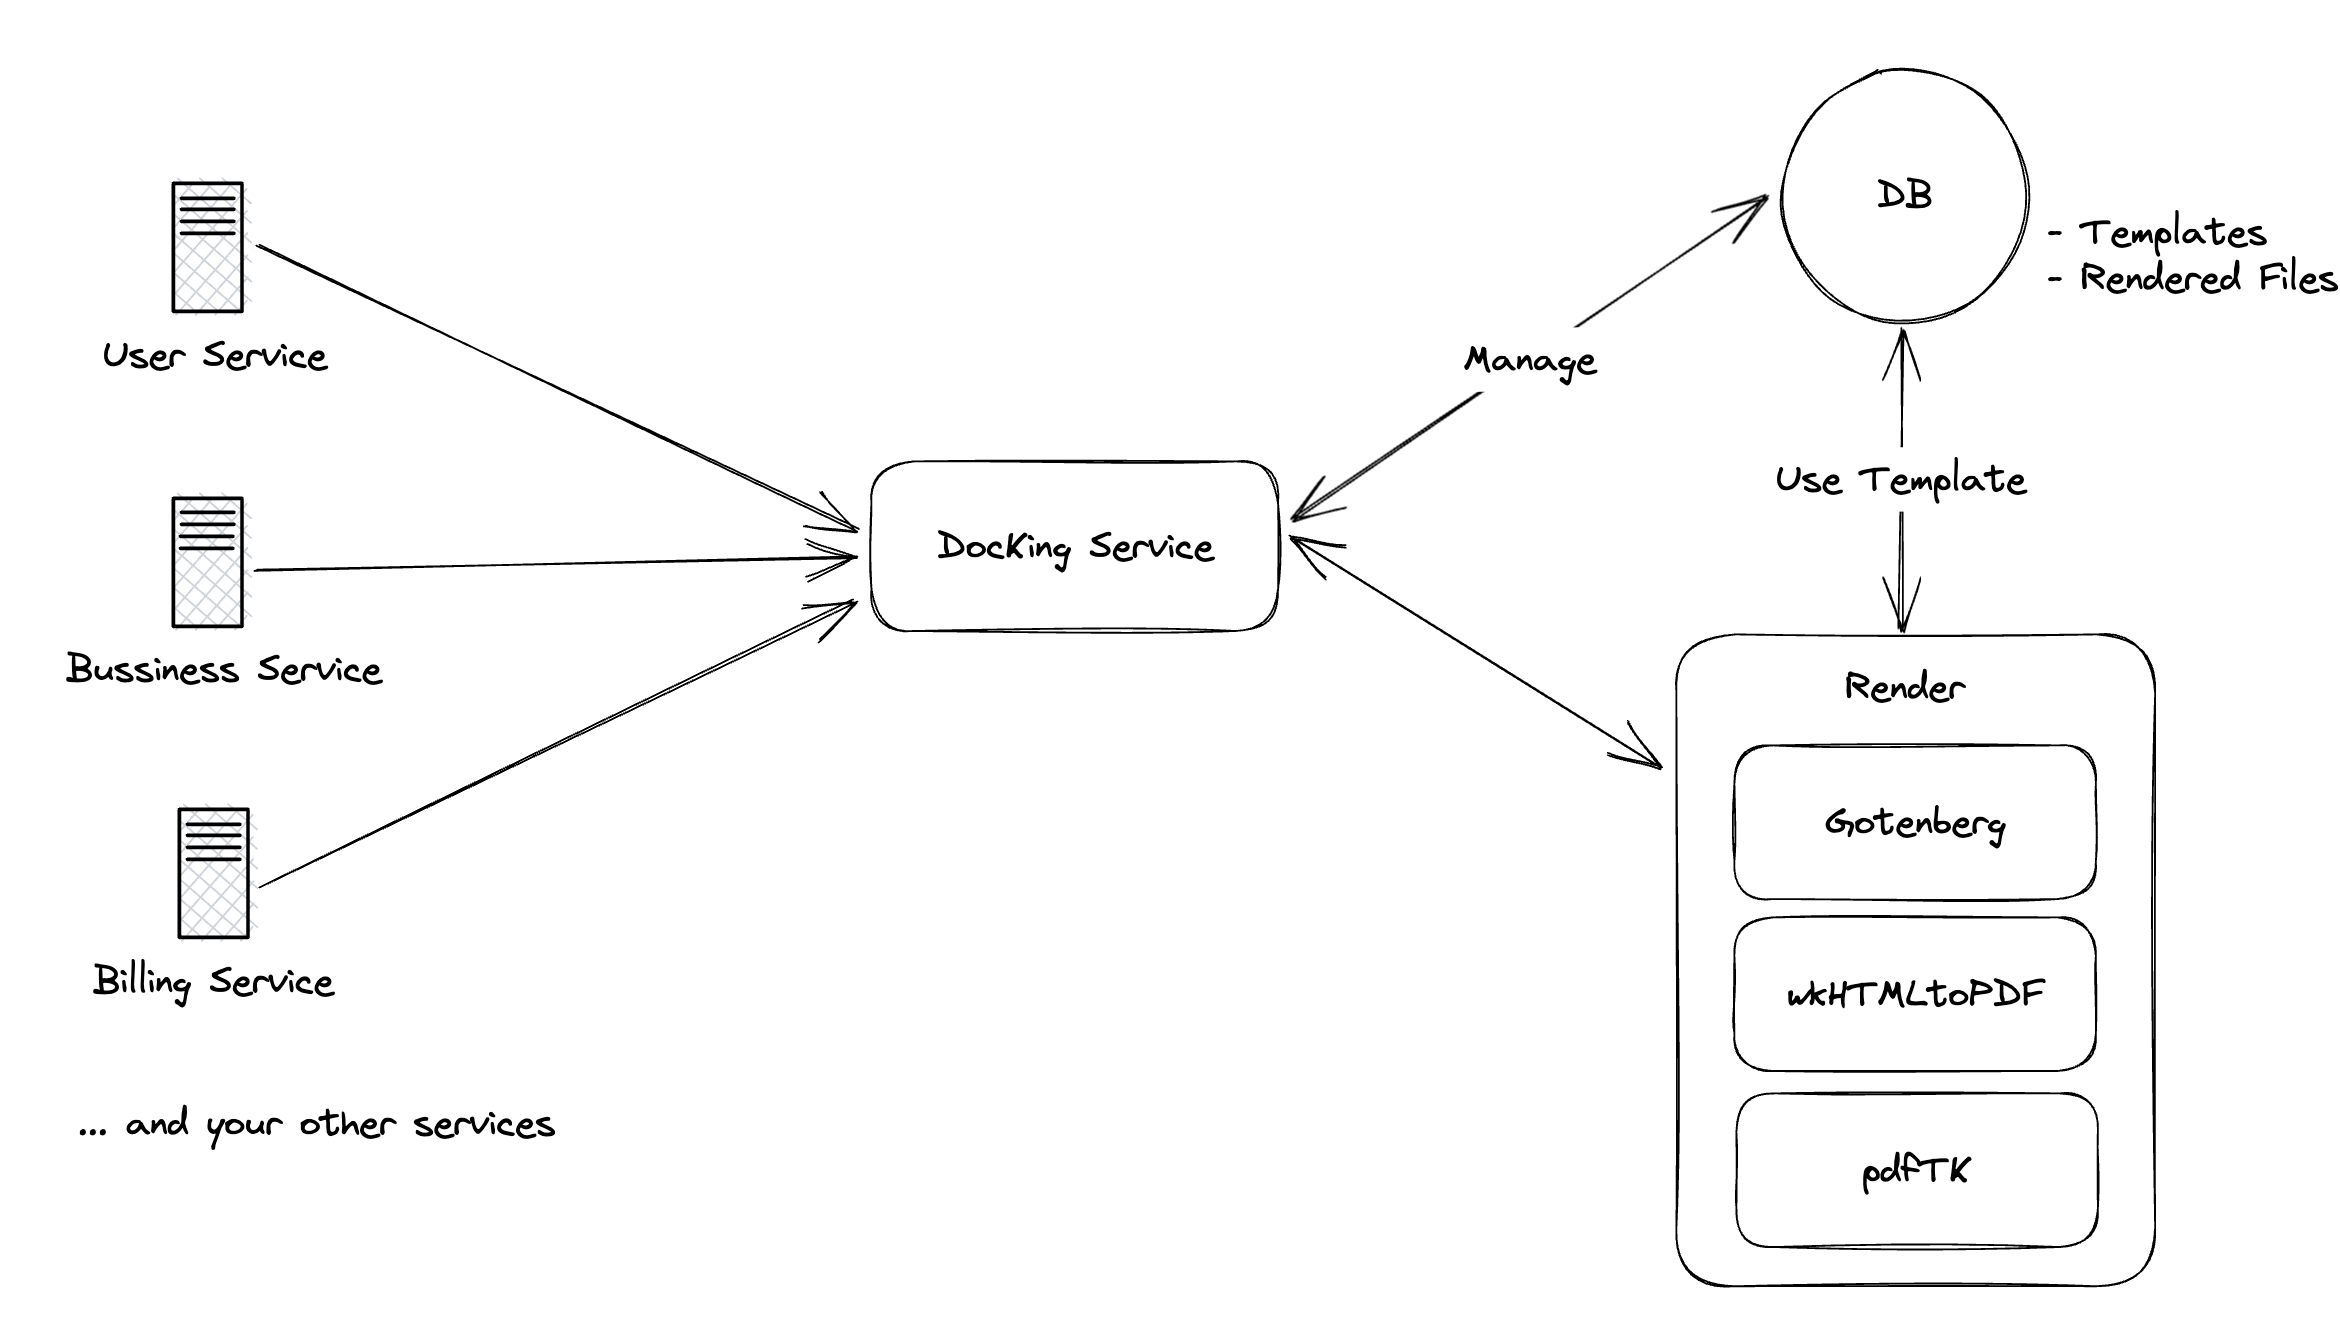
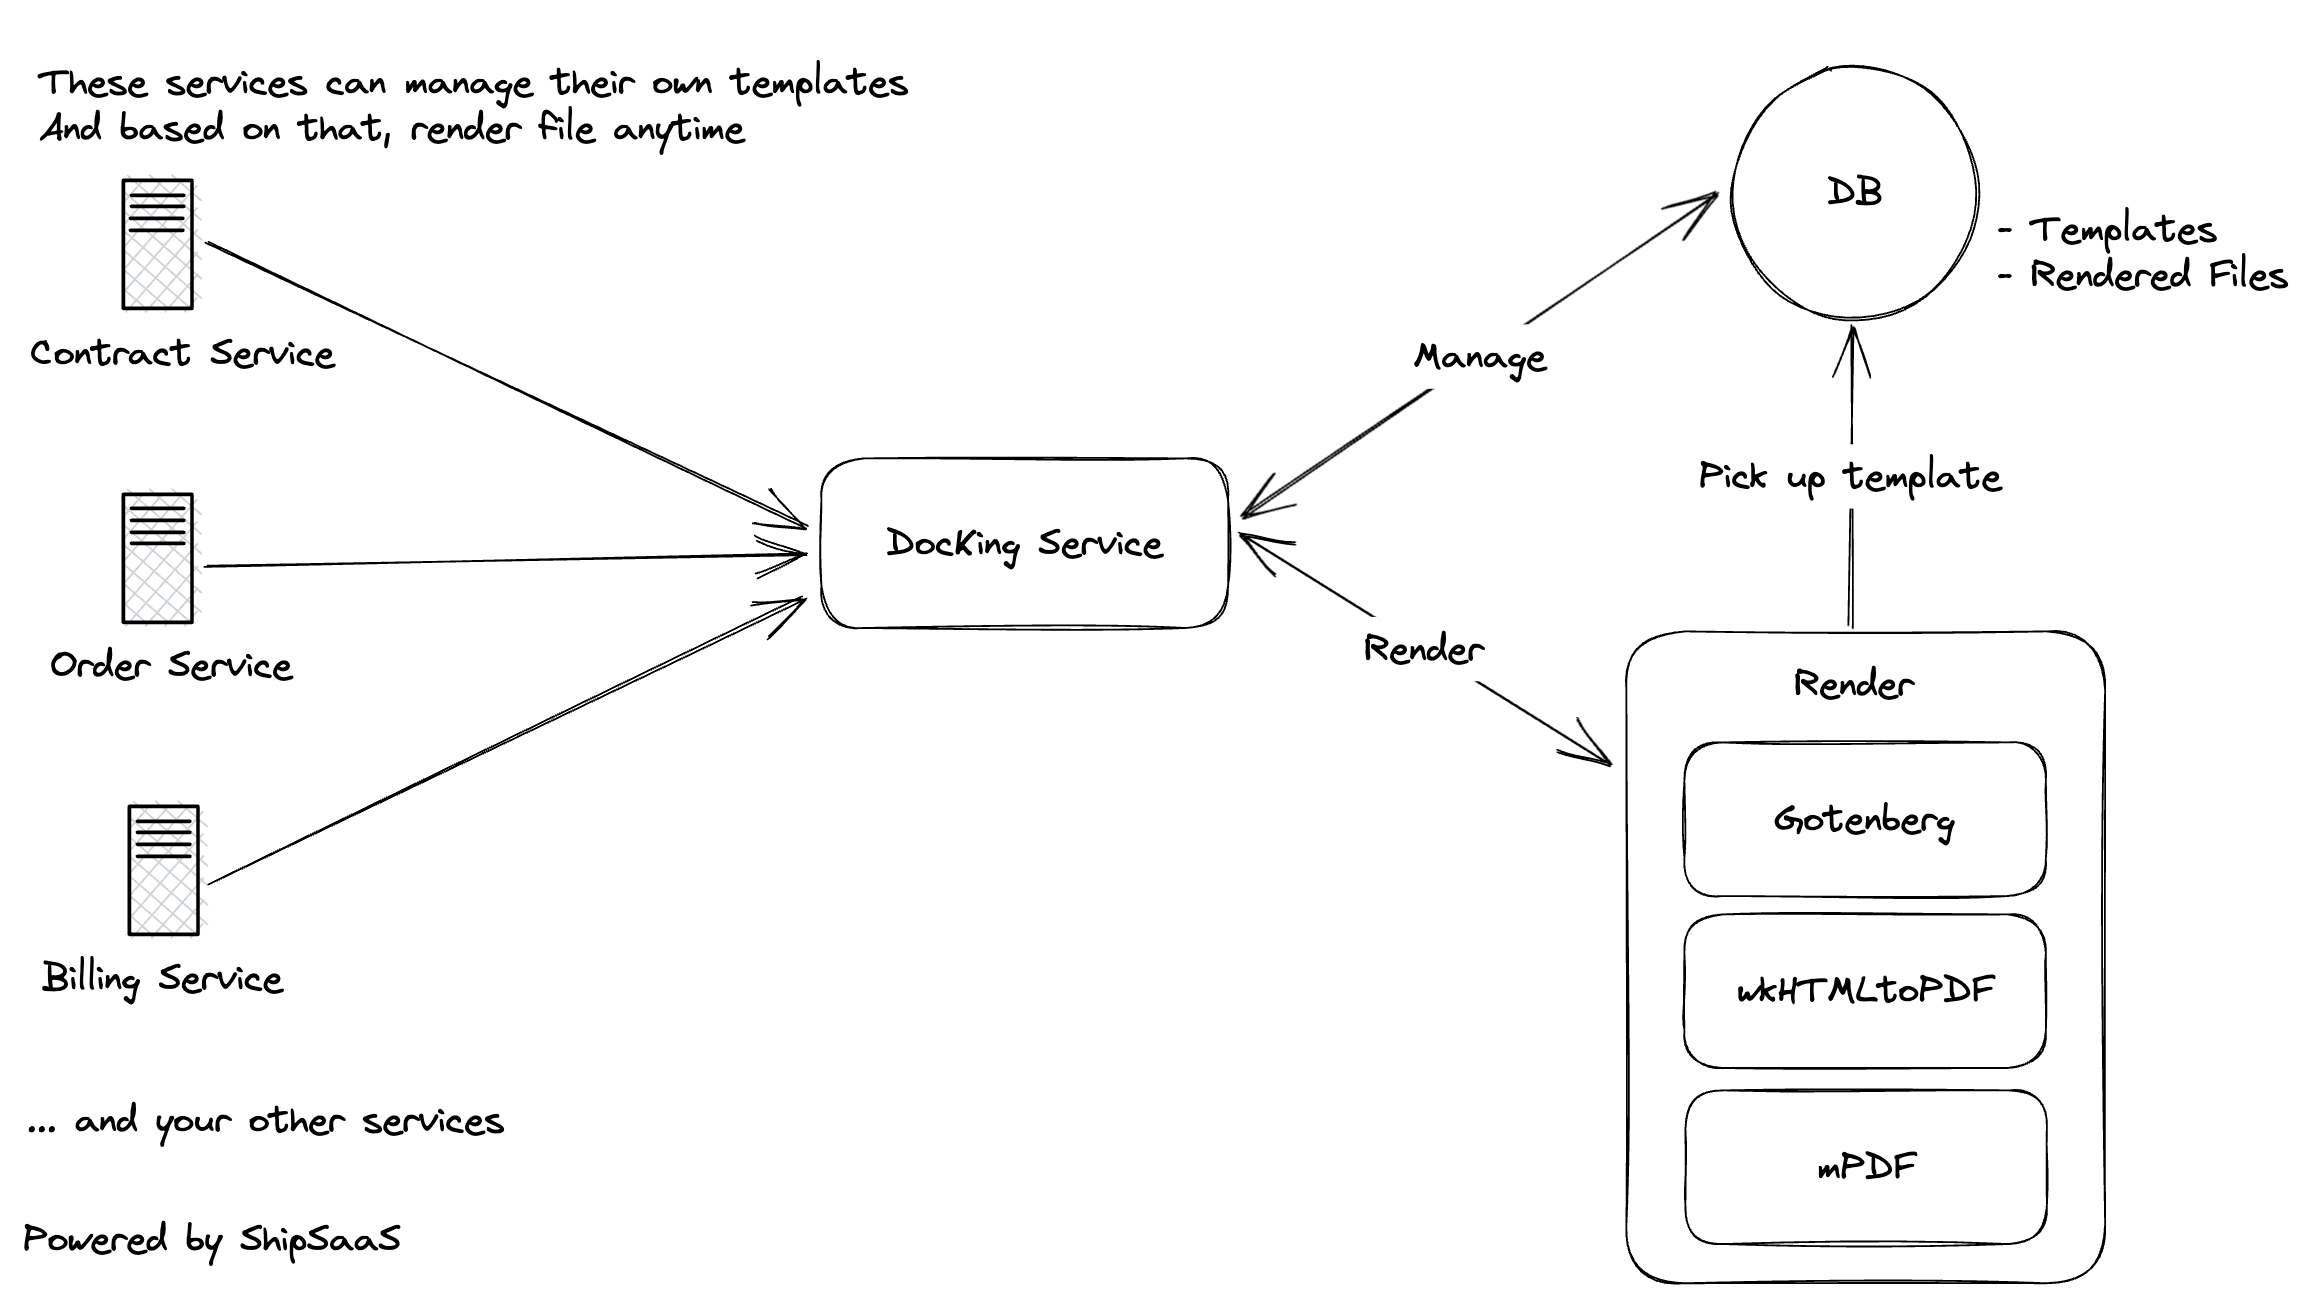
DocKing

diff --git a/app/Providers/RouteServiceProvider.php b/app/Providers/RouteServiceProvider.php
@@ -2,6 +2,8 @@
 
 namespace App\Providers;
 
+use App\Models\DocumentFile;
+use App\Models\DocumentTemplate;
 use Illuminate\Cache\RateLimiting\Limit;
 use Illuminate\Foundation\Support\Providers\RouteServiceProvider as ServiceProvider;
 use Illuminate\Http\Request;
@@ -31,6 +33,8 @@ class RouteServiceProvider extends ServiceProvider
             Route::middleware('web')
                 ->group(base_path('routes/web.php'));
         });
+
+        $this->registerModelBindings();
     }
 
     /**
@@ -41,5 +45,11 @@ class RouteServiceProvider extends ServiceProvider
         RateLimiter::for('api', function (Request $request) {
             return Limit::perMinute(60)->by($request->user()?->id ?: $request->ip());
         });
+    }
+
+    private function registerModelBindings(): void
+    {
+        Route::model('documentFile', DocumentFile::class);
+        Route::model('documentTemplate', DocumentTemplate::class);
     }
 }

diff --git a/app/Providers/AppServiceProvider.php b/app/Providers/AppServiceProvider.php
@@ -3,16 +3,26 @@
 namespace App\Providers;
 
 use Illuminate\Support\ServiceProvider;
+use Services\PdfRenderers\GotenbergRendererService;
+use Services\PdfRenderers\MpdfRendererService;
+use Services\PdfRenderers\WkHtmlToPdfRendererService;
 
 class AppServiceProvider extends ServiceProvider
 {
-    public function register(): void
+    public function boot(): void
     {
         //
     }
 
-    public function boot(): void
+    public function register(): void
     {
-        //
+        $this->app->singleton(GotenbergRendererService::class, function () {
+            return new GotenbergRendererService(
+                $this->app['config']->get('docking.drivers.gotenberg.endpoint')
+            );
+        });
+
+        $this->app->singleton(MpdfRendererService::class);
+        $this->app->singleton(WkHtmlToPdfRendererService::class);
     }
 }

diff --git a/app/Http/Requests/PdfRenderRequest.php b/app/Http/Requests/PdfRenderRequest.php
@@ -1,0 +1,35 @@
+<?php
+
+namespace App\Http\Requests;
+
+use App\Enums\PdfService;
+use Illuminate\Foundation\Http\FormRequest;
+use Illuminate\Validation\Rule;
+
+class PdfRenderRequest extends FormRequest
+{
+    public function authorize(): bool
+    {
+        return true;
+    }
+
+    public function rules(): array
+    {
+        return [
+            'variables' => 'nullable|array',
+            'metadata' => 'nullable|array',
+            'metadata.driver' => [
+                'nullable',
+                Rule::in(PdfService::cases()),
+            ],
+        ];
+    }
+
+    public function getMetadata(): array
+    {
+        $metadata = $this->input('metadata') ?: [];
+        $metadata['driver'] = $metadata['driver'] ?? null;
+
+        return $metadata;
+    }
+}

diff --git a/app/Http/Controllers/PdfRenderController.php b/app/Http/Controllers/PdfRenderController.php
@@ -1,0 +1,20 @@
+<?php
+
+namespace App\Http\Controllers;
+
+use App\Http\Requests\PdfRenderAsyncRequest;
+use App\Http\Requests\PdfRenderRequest;
+use App\Models\DocumentTemplate;
+
+class PdfRenderController extends Controller
+{
+    public function render(PdfRenderRequest $request, DocumentTemplate $documentTemplate)
+    {
+
+    }
+
+    public function renderAsync(PdfRenderAsyncRequest $request, DocumentTemplate $documentTemplate)
+    {
+
+    }
+}

diff --git a/app/Services/PdfRenderers/GotenbergRendererService.php b/app/Services/PdfRenderers/GotenbergRendererService.php
@@ -8,6 +8,11 @@ use App\Services\PdfRenderers\PdfRendererContract;
 
 class GotenbergRendererService implements PdfRendererContract
 {
+    public function __construct(
+        protected readonly string $gotenbergEndpoint
+    ) {
+    }
+
     public function render(DocumentTemplate $documentTemplate, array $variables = [], array $metadata = []): PdfRenderResult
     {
         // TODO: Implement render() method.

diff --git a/app/Http/Requests/PdfRenderAsyncRequest.php b/app/Http/Requests/PdfRenderAsyncRequest.php
@@ -1,0 +1,18 @@
+<?php
+
+namespace App\Http\Requests;
+
+use App\Enums\PdfService;
+use Illuminate\Foundation\Http\FormRequest;
+use Illuminate\Validation\Rule;
+
+class PdfRenderAsyncRequest extends PdfRenderRequest
+{
+    public function rules(): array
+    {
+        return [
+            ...parent::rules(),
+            'webhook_url' => 'required|url',
+        ];
+    }
+}

diff --git a/config/docking.php b/config/docking.php
@@ -8,4 +8,12 @@ return [
     'console-password' => env('DOCKING_CONSOLE_PASSWORD', ''),
 
     'public-access-key' => env('DOCKING_PUBLIC_ACCESS_KEY', ''),
+
+    'default-pdf-driver' => env('DOCKING_DEFAULT_PDF_DRIVER', 'gotenberg'),
+
+    'drivers' => [
+        'gotenberg' => [
+            'endpoint' => env('DOCKING_GOTENBERG_ENDPOINT', null),
+        ],
+    ],
 ];

diff --git a/app/Enums/PdfService.php b/app/Enums/PdfService.php
@@ -1,0 +1,10 @@
+<?php
+
+namespace App\Enums;
+
+enum PdfService: string
+{
+    case GOTENBERG = 'gotenberg';
+    case WK_HTML_TO_PDF = 'wkhtmltopdf';
+    case MPDF = 'mpdf';
+}

diff --git a/README.md b/README.md
@@ -5,19 +5,29 @@ DocKing is a document-management microservice. Deal with the templates & render 
 You can use DocKing as a Shared-Microservice which can be used in any services.
 
 ## Features
-- Manage your document templates.
-- Render HTML based on your desired data for a specific template, then export it as PDF.
-- Webhook notification after PDF rendered (for async flow).
-- Built-in UI-console to manage the services (for internal use).
+- Manage your document templates 📰🧾.
+- Render HTML based on your desired data for a specific template, then export it as PDF 🏃.
+- Webhook notification after PDF rendered (for async flow) 🚀
+- Built-in UI-console to manage the services (for internal use) 🔋.
+- DocKing can perfectly fit for the horizontal scaling based on your needs 😉.
 
 ## Diagram of how it works
 
 ![DocKing](./docs/img/full-picture.png)
 
+From the diagram above, DocKing is standing as a "shared-microservice".
+
+- Billing Service can manage their bill templates and render the PDFs.
+- Order Service can manage their order templates and render the PDFs.
+- Contract Service can manage their contract templates and render the PDFs.
+- ...
+
+Awesome, IKR?
+
 ## DocKing uses
 - PHP 8.2
 - Laravel 10
-- MySQL/PostgreSQL (your desire)
+- Any database (MySQL, PostgreSQL or SQLite - your choice.)
 
 ### PDF Rendering Services
 - Gotenberg
